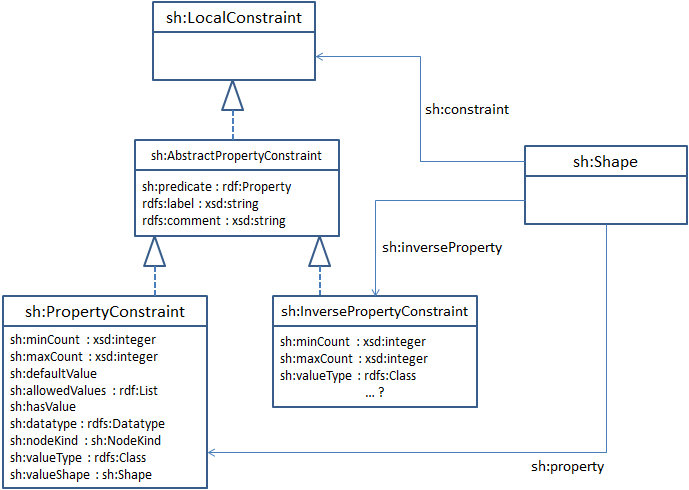
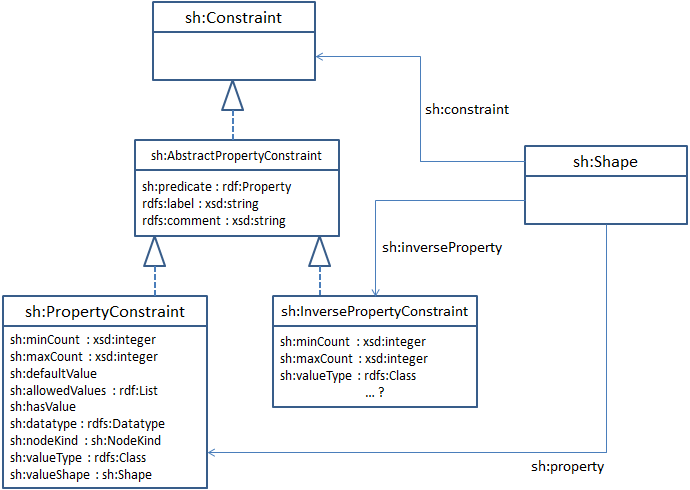
Simplified global constraints -> graph-level constraints

diff --git a/shacl/index.html b/shacl/index.html
@@ -117,7 +117,7 @@
 				SHACL (Shapes Constraint Language) is an RDF vocabulary for describing RDF graph structures.
 				Some of these graph structures are captured as "shapes", which group together constraints about the same RDF nodes.
 				Shapes provide a high-level vocabulary to identify predicates and their associated cardinalities, datatypes and other constraints.
-				Additional constraints can either be stated globally or be associated with shapes using SPARQL and similar executable languages.
+				Additional constraints can be associated with shapes using SPARQL and similar executable languages.
 				These executable languages can also be used to define new high-level vocabulary terms.
 				SHACL shapes can be used to communicate data structures associated with some process or interface, generate or validate data, or drive user interfaces.
 				This document defines the SHACL RDF vocabulary together with its underlying semantics.
@@ -206,14 +206,14 @@ ex:SubmitterShape
 				<p>
 					The basic building blocks of SHACL are <span class="term">constraints</span>.
 					Each <span class="term">constraint</span> defines a condition that can be validated against a graph.
-					A <a href="#shapes"><span class="term">shape</span></a> describes a group of <span class="term">local constraints</span> with the same <span class="term">focus node</span>.
+					A <a href="#shapes"><span class="term">shape</span></a> describes a group of <span class="term">constraints</span> with the same <span class="term">focus node</span>.
 					Many of these constraints are about a certain property only, and these are called <a href="#property-constraints"><span class="term">property constraints</span></a>.
-					<span class="term">Local constraints</span> are evaluated against a given <span class="term">focus node</span>, which serves as starting point of property paths and other graph traversal algorithms.
+					<span class="term">Constraints</span> are evaluated against a given <span class="term">focus node</span>, which serves as starting point of property paths and other graph traversal algorithms.
 					In the current draft, the IRIs of classes (such as <code>ex:Issue</code> above) may also be used as shapes.
 					Such shape classes may be arranged in a <span class="term">specialization</span> hierarchy, allowing some shapes to further narrow down the constraints from other shapes.
 				</p>
 				<p>
-					In the Issue example above, the shape <code>ex:Issue</code> includes two local constraints.
+					In the Issue example above, the shape <code>ex:Issue</code> includes two constraints.
 					These constraints are here represented as blank nodes via <code>sh:property</code>.
 					Each of these constraints specifies the restricted property via <code>sh:predicate</code>, and one or more constraint properties such as <code>sh:minCount</code> and <code>sh:valueType</code>.
 					The property <code>sh:valueShape</code> points to another <code>sh:Shape</code> that defines additional constraints that the values of
@@ -270,10 +270,6 @@ ex:UserWithEmail
 					Readers only interested in the Core Profile may skip this section.
 				</p>
 				<p>
-					In addition to <span class="term">local constraints</span> (attached to shapes), SHACL also supports <a href="#global-constraints"><span class="term">global constraints</span></a>.
-					<span class="term">Global constraints</span> are executed when constraint validation is invoked on the whole graph, and may verify arbitrary conditions.
-				</p>
-				<p>
 					The validation of each <span class="term">constraint</span> is formalized with one or more <span class="term">execution languages</span>.
 					This version of SHACL supports <a href="#sparql">SPARQL</a> as an <span class="term">execution language</span>, but other languages may be supported in future versions or by other communities.
 					Each constraint needs to be backed by at least one <span class="term">executable body</span> in SPARQL, and any alternative bodies need to follow the same semantics as the SPARQL queries.
@@ -286,24 +282,25 @@ ex:UserWithEmail
 					Some SHACL engines may decide to only support certain <span class="term">profiles</span> and implement them differently than the provided (SPARQL) bodies.
 				</p>
 				<p>
-					The following example illustrates the use of a <span class="term">global native SPARQL constraint</span> to specify that there cannot be two instances of <code>schema:Person</code> with the same <code>schema:email</code>.
-					Note that each result set row produced by the SELECT clauses of the SPARQL query creates one constraint violation.
+					The following example illustrates the use of a <span class="term">native SPARQL constraint</span>,
+					to specify that there cannot be two resources with the same <code>schema:email</code>.
+					Note that each result set row produced by the SELECT clause of the SPARQL query creates one constraint violation.
 				</p>
-				<pre class="example" title="A global SPARQL-based constraint">
-ex:EmailsMustBeUnique
-	a sh:GlobalNativeConstraint ;
-	sh:message "There cannot be two persons with the same email address." ;
-	sh:predicate schema:email ;
-	sh:sparql """
-		SELECT (?person1 AS ?subject) (?email AS ?object)
-		WHERE {
-			?person1 schema:email ?email .
-			?person2 schema:email ?email .
-			?person1 a schema:Person .
-			?person2 a schema:Person .
-			FILTER (?person1 != ?person2) .
-		}
-		""" .</pre>
+				<pre class="example" title="A SPARQL-based constraint">
+ex:UniqueEmailShape
+	a sh:Shape ;
+	sh:constraint [
+		sh:message "There cannot be two resources with the same email address." ;
+		sh:predicate schema:email ;
+		sh:sparql """
+			SELECT ?this (?this AS ?subject) (?email AS ?object)
+			WHERE {
+				?this schema:email ?email .
+				?other schema:email ?email .
+				FILTER (?this != ?other) .
+			}
+			"""
+	] .</pre>
 			</section>
 			
 			<section id="namespaces">
@@ -368,7 +365,6 @@ ex:EmailsMustBeUnique
 			</div>
 			<p>
 				A <span class="term">Constraint</span> defines restrictions on the structure of an RDF graph.
-				Some constraints, called <span class="term">local constraints</span>, can be regarded as radiating out from a <span class="term">focus node</span>.  
 				A <span class="term">Shape</span> is a group of constraints that have the same focus nodes.
 				For example, a shape can be used to state that all instances of a class must have a certain number of values for a given property.
 				In that example, the instances of the class are the focus nodes, and the restriction on property values is expressed via a constraint.
@@ -413,7 +409,7 @@ ex:EmailsMustBeUnique
 			<section id="shape-constraints">
 				<h3>Shape Constraints</h3>
 				<p>
-					A shape can be regarded as a collection of local constraints on a <span class="term">focus node</span>.
+					A shape can be regarded as a collection of constraints on the same <span class="term">focus node</span>.
 					These constraints can be grouped into three categories that are covered by subsequent sections.
 				</p>
 				<ul>
@@ -960,7 +956,7 @@ ex:InversePropertyConstraintExampleShape
 			<section id="or">
 				<h3>Disjunctive Constraints (sh:OrConstraint)</h3>
 				<p>
-					SHACL supports a high-level syntax for disjunctive local constraints that can be used to test whether the <span class="term">focus node</span> matches at least one out of several shapes.
+					SHACL supports a high-level syntax for disjunctive constraints that can be used to test whether the <span class="term">focus node</span> matches at least one out of several shapes.
 					This is comparable to a logical "or" operator.
 				</p>
 				<div id="def-orConstraint-text" class="def def-text">
@@ -1055,7 +1051,7 @@ ex:ClosedShapeExampleInvalidResource
 				A related tracker item is <a href="http://www.w3.org/2014/data-shapes/track/issues/48">ISSUE-48</a>.
 			</p>
 			<p>
-				Shapes or local constraints may have a property <code>sh:scopeShape</code> to declare a <span class="term">scope</span> that serves as a <span class="term">pre-condition</span>
+				Shapes or constraints may have a property <code>sh:scopeShape</code> to declare a <span class="term">scope</span> that serves as a <span class="term">pre-condition</span>
 				to narrow down when the constraint(s) applies.	The values of <code>sh:scopeShape</code> must be shape definitions.
 				These shapes must be evaluated before the constraint is evaluated.
 				If the scope shape returns an error-level constraint violation, then the constraint will be ignored.
@@ -1233,8 +1229,7 @@ ex:ExampleConstraintViolation
 			</p>
 			<p>
 				The property <code>sh:constraint</code> provides the most general mechanism to associate a constraint with a shape.
-				The values of this property must be <span class="term">local constraints</span>, i.e. they MUST reference a
-				<span class="term">focus node</span>.
+				The values of this property must be <span class="term">constraints</span>, i.e. they MAY reference a <span class="term">focus node</span>.
 				Note that the property <code>sh:property</code> SHOULD be used instead of <code>sh:constraint</code> if the constraint is a <code>sh:PropertyConstraint</code>.
 				The property <code>sh:inverseProperty</code> SHOULD be used instead of <code>sh:constraint</code> if the constraint is a <code>sh:InversePropertyConstraint</code>.
 			</p>
@@ -1261,7 +1256,7 @@ ex:GeneralTemplateConstraintExampleShape
 		myt:property2 ex:mother ;
 	] .</pre>
 			<p>
-				The following example illustrates the definition of a <span class="term">local constraint</span> based on a SPARQL query.
+				The following example illustrates the definition of a <span class="term">constraint</span> based on a SPARQL query.
 				The property <code>sh:sparql</code> is used to point at a SELECT query as explained in a later <a href="#sparql-constraints">section</a>.
 				Note that the variable <code>?this</code> is used to reference the <span class="term">focus node</span>.
 			</p>
@@ -1284,6 +1279,28 @@ ex:GeneralSPARQLConstraintExampleShape
 				In the example above, SPARQL is provided as the only native executable.
 				However, additional executables such as JavaScript may be provided based on other sets of properties like <code>ex:javaScript</code>.
 			</p>
+			<section id="graph-constraints">
+				<h3>Graph-level ("global") Constraints</h3>
+				<p>
+					In some cases, constraints are not naturally associated with individual focus nodes, but need to be enforced upon a whole graph.
+					The following example illustrates one way of representing such conditions, by associating a shape with the graph resource itself, via <code>sh:nodeShape</code>.
+					The constraint expresses that the graph must contain at least one instance of a given class.
+					Note that the constraint itself does not reference the <span class="term">focus node</span> <code>?this</code> at all.
+				</p>
+				<pre class="example" title="Graph-level Constraint">
+&lt;http://example.org/exampleGraph&gt;
+	a rdfs:Resource ;       # TODO: better would be sh:Graph if that's approved
+	sh:nodeShape [
+		sh:constraint [
+			sh:message "There needs to be at least one instance of ex:SomeClass." ;
+			sh:sparql """
+				SELECT (ex:SomeClass AS ?root)
+				WHERE {
+					FILTER NOT EXISTS { ?any rdf:type ex:SomeClass } .
+				} """
+		]
+	] .</pre>
+			</section>
 		</section>
 		
 		<section id="templates">
@@ -1298,7 +1315,7 @@ ex:GeneralSPARQLConstraintExampleShape
 				Constraint templates are represented as IRI nodes that are instances of the class <code>sh:ConstraintTemplate</code>.
 				SHACL also includes a more general superclass <code>sh:Template</code> that may be used for other kinds of templates (rules, stored queries etc).
 				Well-defined, non-abstract templates MUST provide at least one executable body property using <a href="#sparql-templates"><code>sh:sparql</code></a>.
-				The following example illustrates the definition of a local constraint template based on a SPARQL query.
+				The following example illustrates the definition of a constraint template based on a SPARQL query.
 			</p>
 			<pre class="example" title="Constraint template based on SPARQL">
 ex:ExampleTemplate
@@ -1396,68 +1413,6 @@ ex:MyProfile
 				as well as <a href="#or">disjunctive constraints</a> and <a href="#ClosedShape">closed shapes</a>. 
 			</p>
 		</section>
-		
-		<section id="global-constraints">
-			<h2>Global Constraints</h2>
-			<p>
-				While Shapes define constraints centered around <span class="term">focus nodes</span>, global constraints may define arbitrary graph-level restrictions.
-				SHACL can represent two kinds of global constraints:
-			</p>
-			<ul>
-				<li><a href="#global-constraints-native">Global native constraints</a></li>
-				<li><a href="#global-constraints-template">Global template constraints</a></li>
-			</ul>
-			<section id="global-constraints-native">
-				<h3>Global Native Constraints</h3>
-				<p>
-					Similar to <a href="#general-constraints">native general shape constraints</a>, native global constraints must have at least
-					one <span class="term">executable body</span> that instructs execution engines how to compute constraint violations.
-					The current version of SHACL only includes one such language, SPARQL, identified by the property <code>sh:sparql</code>.
-					Details of the evaluation rules for SPARQL are defined in its corresponding <a href="#sparql-constraints">section</a>. 
-				</p>
-				<p>
-					The following example illustrates the syntax for a global native constraint based on SPARQL.
-				</p>
-				<pre class="example" title="Global native constraint">
-ex:ExampleGlobalSPARQLConstraint
-	a sh:GlobalNativeConstraint ;
-	sh:message "There needs to be at least one instance of ex:SomeClass." ;
-	sh:sparql """
-		SELECT (ex:SomeClass AS ?root)
-		WHERE {
-			FILTER NOT EXISTS { ?any rdf:type ex:SomeClass } .
-		}
-		""" .</pre>
-			</section>
-			<section id="global-constraints-template">
-				<h3>Global Template Constraints</h3>
-				<p>
-					Global constraints can be expressed as instances of the class <code>sh:ConstraintTemplate</code> that are also subclass of <code>sh:GlobalConstraint</code>.
-					While this version of the SHACL vocabulary does not include any pre-defined global constraint templates, anyone can define and publish such templates with a given IRI.
-				</p>
-				<p>
-					The following example illustrates the syntax for a global template constraint and the template that it instantiates.
-					Note that the constraint does not need to have the explicit type <code>sh:GlobalConstraint</code>
-					because it is an instance of the template <code>ex:ExampleGlobalConstraintTemplate</code> which
-					is declared as a subclass of <code>sh:GlobalTemplateConstraint</code>.
-				</p>
-				<pre class="example" title="Global template constraint">
-ex:ExampleGlobalTemplateConstraint
-	a ex:ExampleGlobalConstraintTemplate ;
-	ex:exampleArgument ex:SomeClass .
-	
-ex:ExampleGlobalConstraintTemplate
-	a sh:ConstraintTemplate ;
-	rdfs:subClassOf sh:GlobalTemplateConstraint ;
-	sh:argument [
-		sh:predicate ex:exampleArgument ;
-		sh:valueType rdfs:Class ;
-		rdfs:label "The class that needs to have at least one instance." ;
-	] ;
-	sh:message "There needs to be at least one instance of the given class" ;
-	...</pre>
-			</section>
-		</section>
 
 		<section id="operations">
 			<h2>Supported Operations</h2>
@@ -1490,7 +1445,7 @@ ex:ExampleGlobalConstraintTemplate
 				<tr>
 					<td><a href="#operation-validateGraph"><code>validateGraph</code></a></td>
 					<td><code>validateNode</code>, <code>validateConstraint</code></td>
-					<td>Validates all nodes in a graph, including global constraints</td>
+					<td>Validates all nodes in a graph</td>
 				</tr>
 			</table>
 			<p>
@@ -1692,7 +1647,7 @@ forEach ?type := (?focusNode rdf:type ?type)
 			<section id="operation-validateGraph">
 				<h3>validateGraph</h3>
 				<p>
-					This operation validates a whole graph against global constraints and all shapes associated with it, based on in-graph mappings.
+					This operation validates a whole graph against all shapes associated with its resources, based on in-graph mappings.
 				</p>
 				<table class="term-table" border="1" cellpadding="5">
 					<tr>
@@ -1706,11 +1661,7 @@ forEach ?type := (?focusNode rdf:type ?type)
 				</p>
 				<pre>
 forEach ?focusNode := (?focusNode sh:nodeShape|rdf:type ?anyShape)
-	validateNode(?focusNode, ?minSeverity)
-
-forEach ?constraint := instance of sh:GlobalConstraint
-	if (declared sh:severity of ?constraint is at least ?minSeverity)
-		validateConstraint(?constraint)</pre>
+	validateNode(?focusNode, ?minSeverity)</pre>
    			</section>
 		</section>
 		
@@ -1814,9 +1765,9 @@ ex:exampleFunction
 					The SPARQL queries attached to a <span class="term">constraint</span> via <code>sh:sparql</code> must be of the query form <code>SELECT</code>.
 				</p>
 				<section id="sparql-constraints-this">
-					<h4>Binding the Focus Node in Local SPARQL Constraints (?this)</h4>
+					<h4>Binding the Focus Node in SPARQL Constraints (?this)</h4>
 					<p>
-						The SPARQL variable <code>?this</code> has a special meaning in local constraints.
+						The SPARQL variable <code>?this</code> has a special meaning in constraints.
 						When SPARQL constraints are executed then the variable <code>?this</code> needs to be pre-bound to the <span class="term">focus node</span>.
 						<span class="todo">(Need a pointer to what "pre-binding" means in this context)</span>
 					</p>
@@ -1903,16 +1854,20 @@ ex:exampleFunction
 					<p>
 						The following example illustrates a constraint that flags warnings for all subjects that have a <code>rdfs:label</code> with the language tag <code>"de"</code>.
 					</p>
-					<pre class="example" title="Global constraint based on SPARQL SELECT">
-ex:ExampleGlobalSelectConstraint
-	a sh:GlobalNativeConstraint ;
+					<pre class="example" title="Label constraint based on SPARQL SELECT">
+ex:ExampleLabelShape
+	a sh:Shape ;
+	sh:constraint ex:ExampleLabelConstraint .
+
+ex:ExampleLabelConstraint
+	a sh:NativeConstraint ;
 	sh:message "Deutsch is verboten" ;
 	sh:predicate rdfs:label ;
 	sh:severity sh:Warning ;
 	sh:sparql """
-		SELECT (?subject AS ?root) ?subject ?object
+		SELECT (?this AS ?root) ?this ?object
 		WHERE {
-			?subject rdfs:label ?object .
+			?this rdfs:label ?object .
 			FILTER (lang(?object) = "de") .
 		}
 		""" .
@@ -1922,16 +1877,16 @@ ex:Resource1
 	rdfs:label "Zwei"@de ;
 	rdfs:label "Trois"@fr .</pre>
 					<p>
-						Output created by the example above would be:
+						Output created by the example shape above validated against <code>ex:Resource1</code> would be:
 					</p>
-					<pre class="example" title="Global constraint example violation output">
+					<pre class="example" title="Label constraint example violation output">
 [
 	a sh:Warning ;
 	sh:subject ex:Resource1 ;
 	sh:predicate rdfs:label ;
 	sh:object "Eins"@de ;
 	sh:message "Deutsch is verboten" ;
-	sh:source ex:ExampleGlobalSelectConstraint ;
+	sh:source ex:ExampleLabelConstraint ;
 ] .
 [
 	a sh:Warning ;
@@ -1939,7 +1894,7 @@ ex:Resource1
 	sh:predicate rdfs:label ;
 	sh:object "Zwei"@de ;
 	sh:message "Deutsch is verboten" ;
-	sh:source ex:ExampleGlobalSelectConstraint ;
+	sh:source ex:ExampleLabelConstraint ;
 ] .</pre>
 				</section>
 				<section id="sparql-constraints-annotations">
@@ -1984,8 +1939,8 @@ ex:Resource1
 					<p>
 						Here is a slightly complex example, illustrating the use of result annotations.
 					</p>
-					<pre class="example" title="Local constraint with an annotation">
-ex:LocalShapeWithPathViolationExample
+					<pre class="example" title="Constraint with an annotation">
+ex:ShapeWithPathViolationExample
 	a sh:Shape ;
 	sh:constraint [
 		sh:resultAnnotation [
@@ -2006,7 +1961,7 @@ ex:LocalShapeWithPathViolationExample
 	] .
 	
 ex:ExampleRootResource
-	sh:nodeShape ex:LocalShapeWithPathViolationExample ;
+	sh:nodeShape ex:ShapeWithPathViolationExample ;
 	ex:property1 ex:ExampleIntermediateResource .
 
 ex:ExampleValueResource
@@ -2015,7 +1970,7 @@ ex:ExampleValueResource
 					<p>
 						Which produces the following error resource:
 					</p>
-					<pre class="example" title="Local constraint example violation output">
+					<pre class="example" title="Constraint example violation output">
 [
 	a sh:Error ;
 	sh:root ex:ExampleRootResource ;
